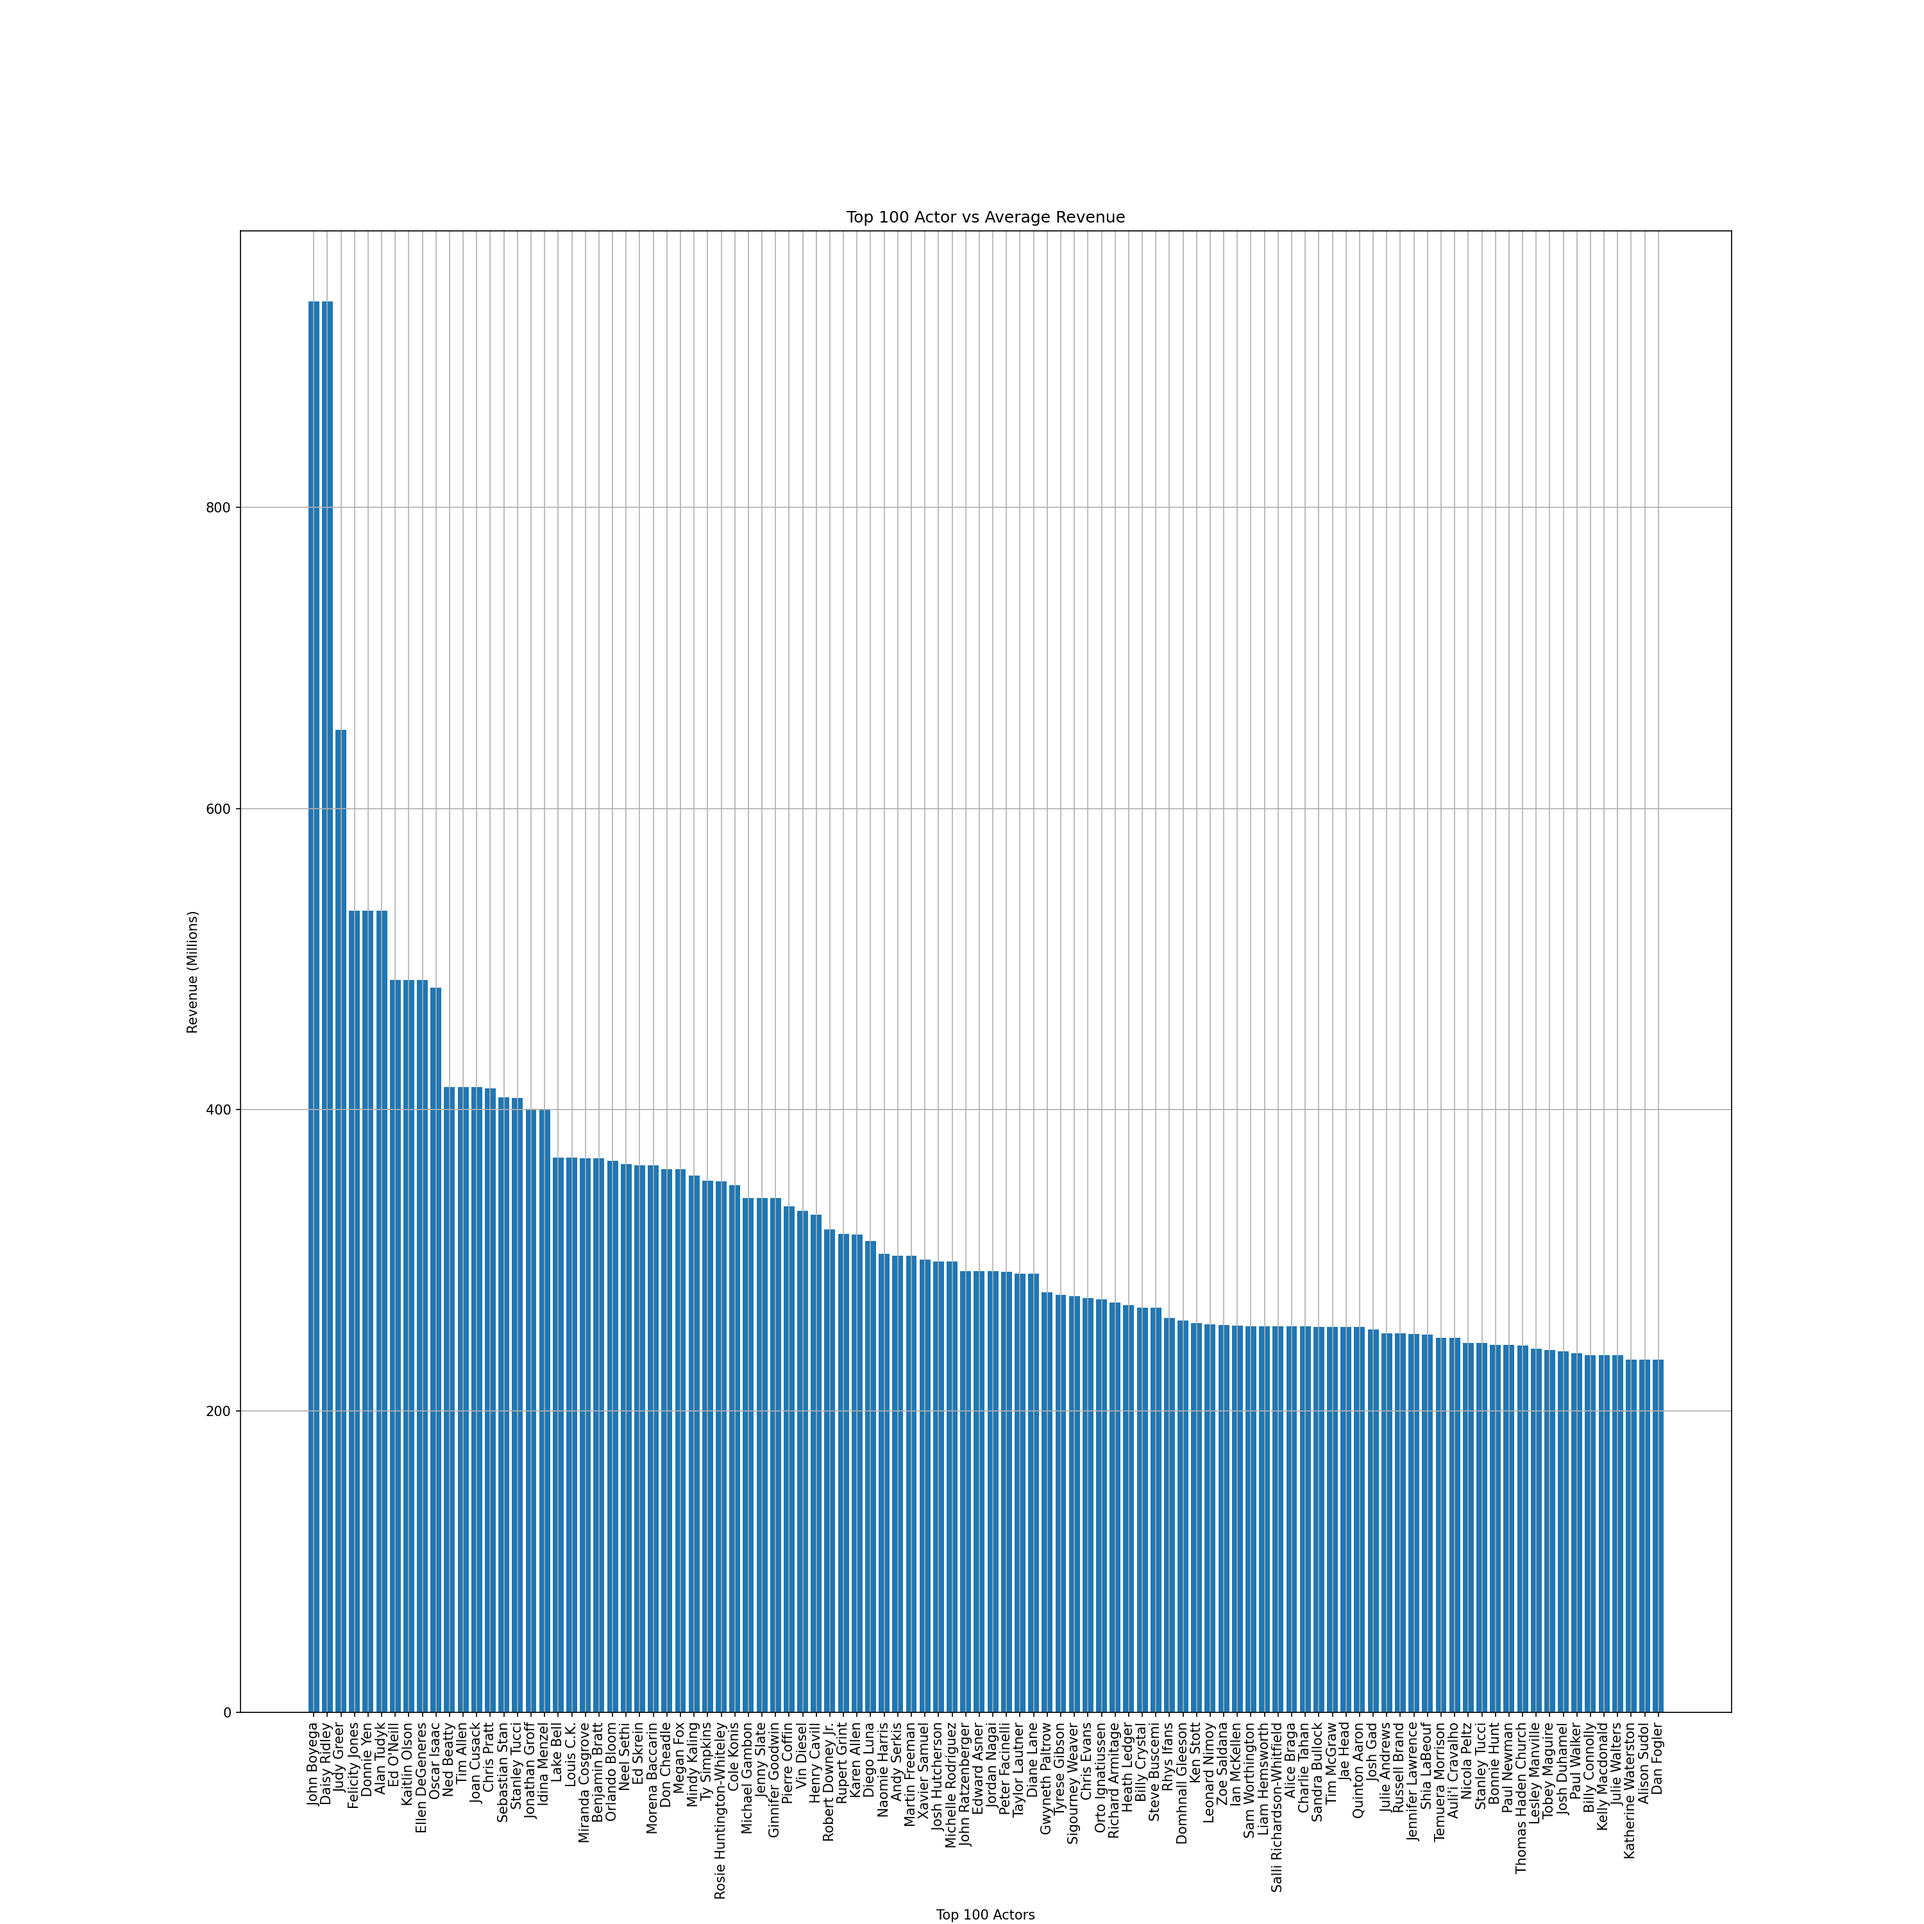
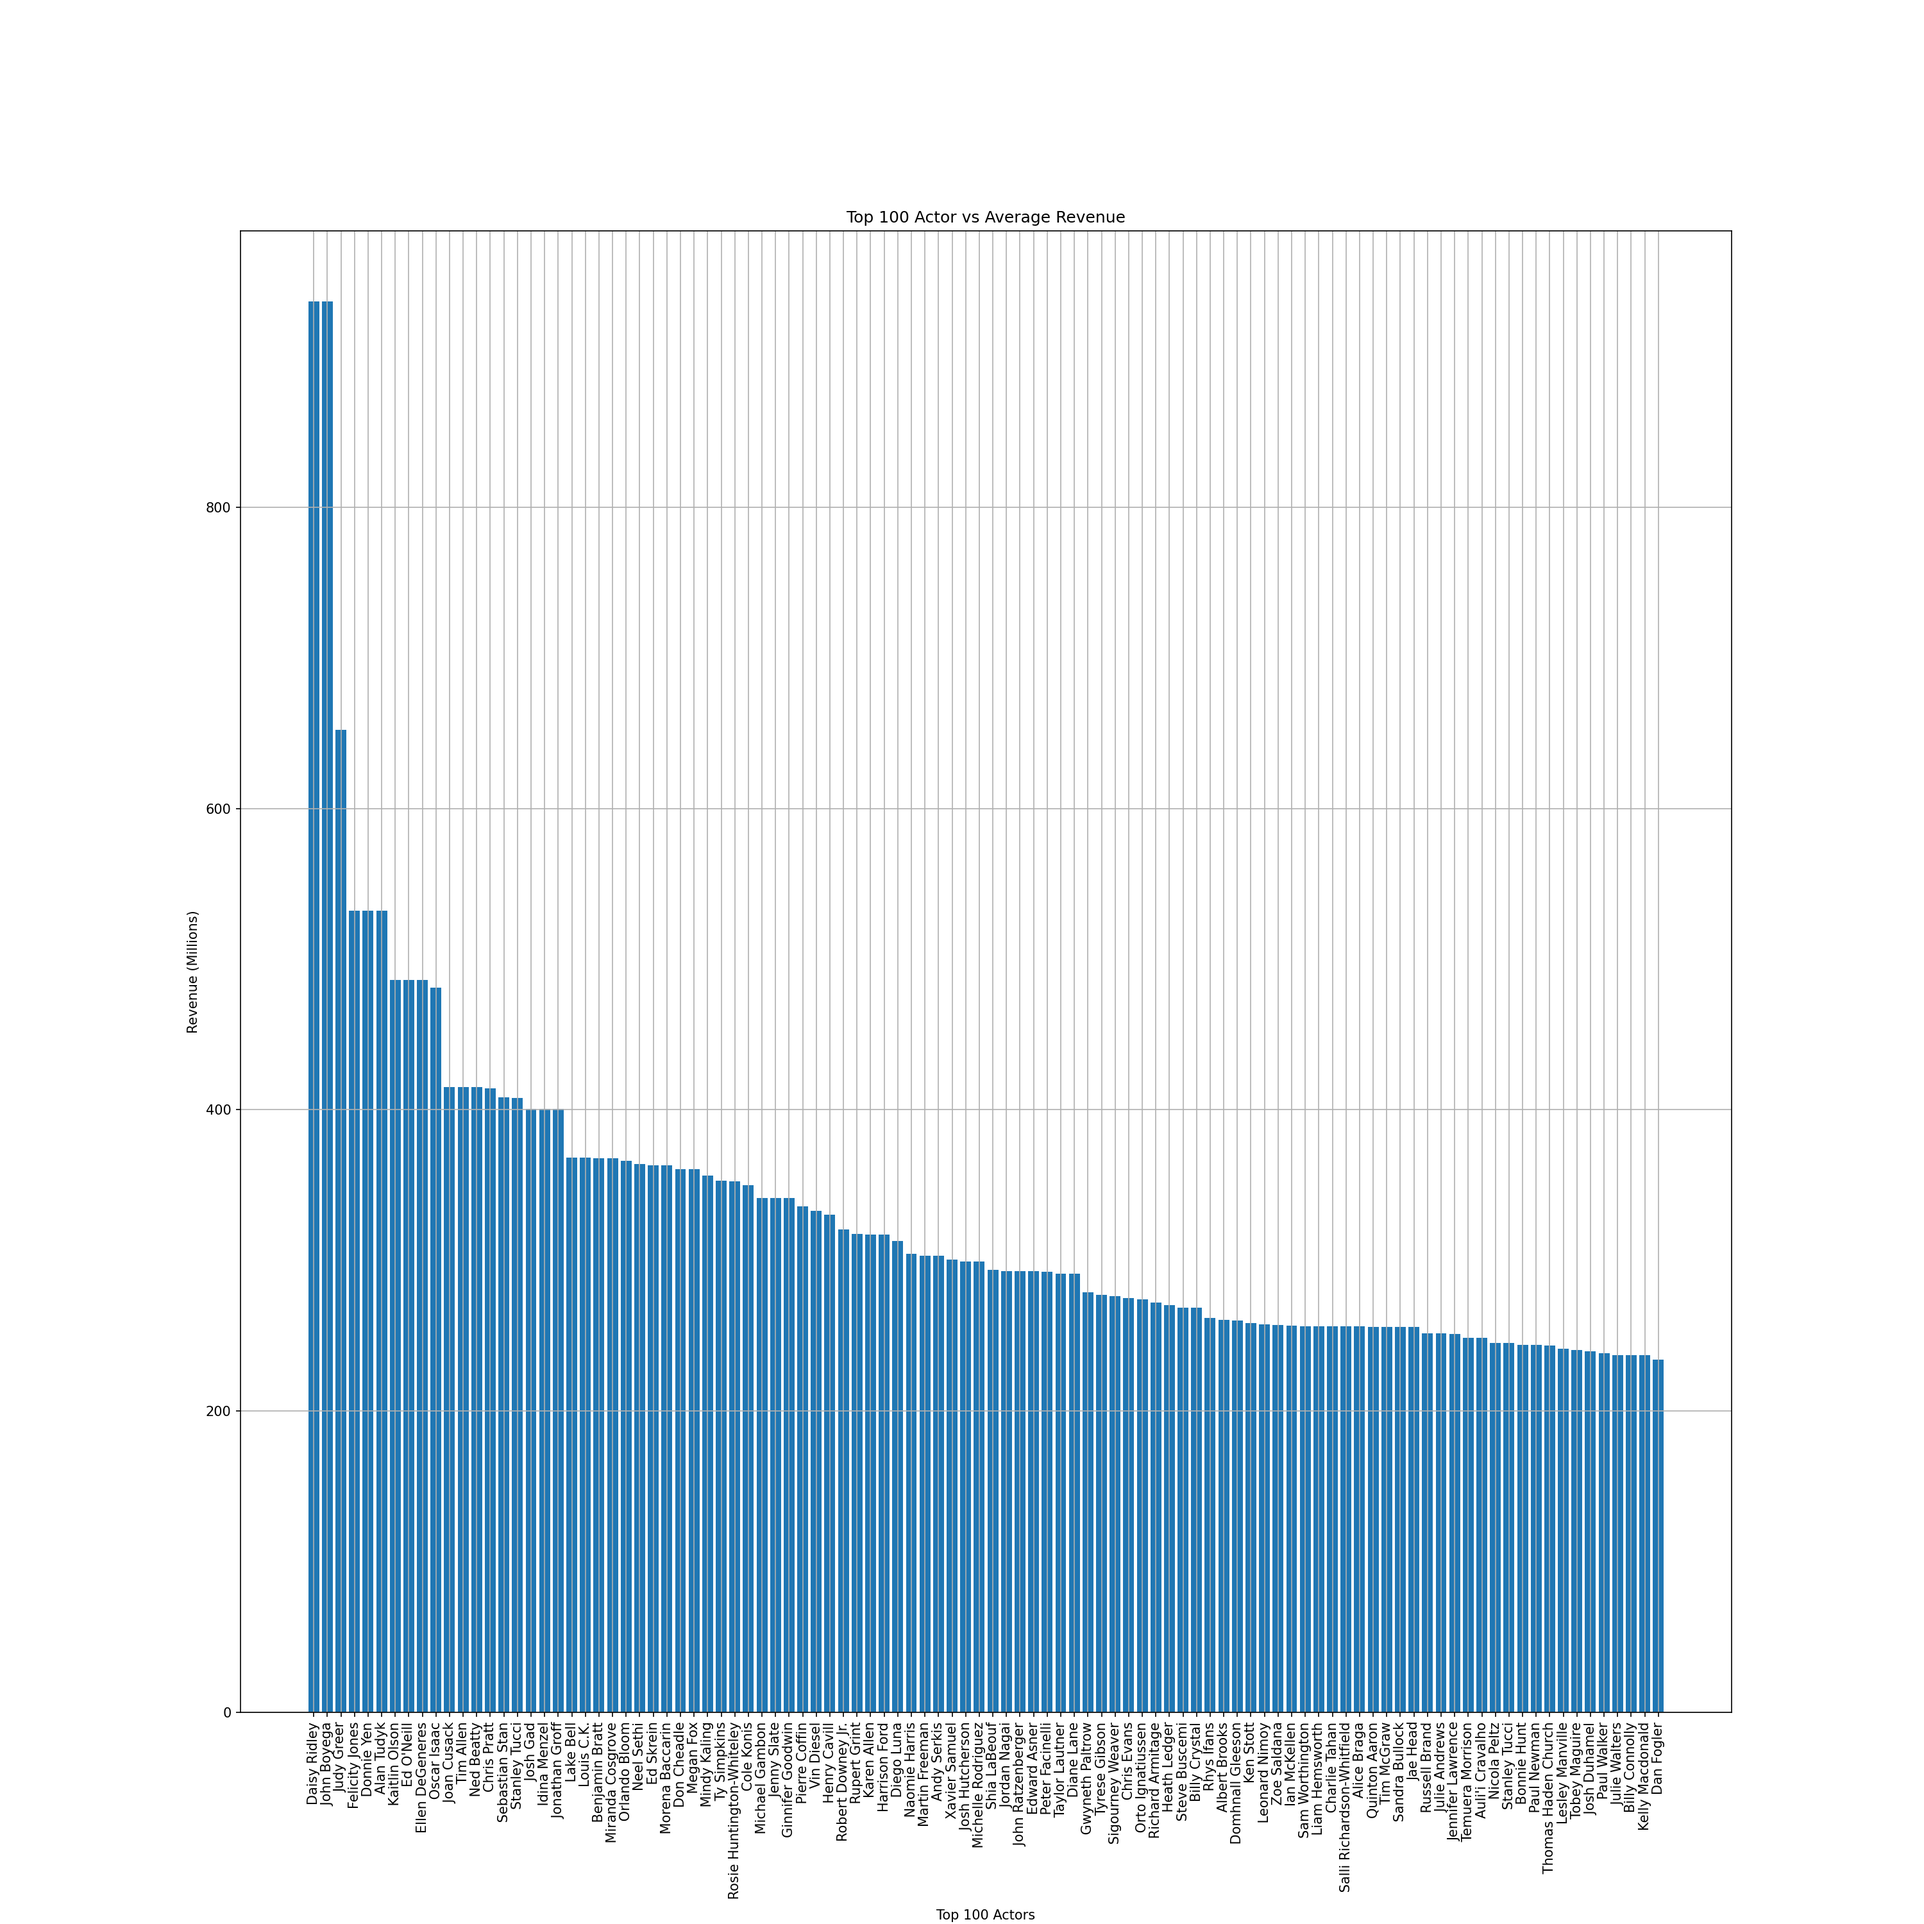
Update Images

Changed region(s): [[0.155, 0.899, 0.868, 0.992], [0.527, 0.651, 0.589, 0.682]]

diff --git a/DataAnalysis.py b/DataAnalysis.py
@@ -60,7 +60,8 @@ def sort_and_crop_dict(d: dict, n: int = None) -> dict:
 def create_average_revenue_dict(colname: str, n: int = None) -> dict:
     # Generate set of distinct genres from dataframe
     if (type(list(data[colname])[0]) == type("")):
-        all = set(sum([allcol.split(",") for allcol in list(data[colname])], []))
+        all = set(sum([allcol.split(",")
+                  for allcol in list(data[colname])], []))
     else:
         all = set([allcol for allcol in list(data[colname])])
 
@@ -69,11 +70,10 @@ def create_average_revenue_dict(colname: str, n: int = None) -> dict:
     for c in all:
         cRevenues[c] = []
 
-
     for index in data.index:
         # Getting revenue for each movie
         itemRevenue = data["Revenue (Millions)"][index]
-        if math.isnan(itemRevenue): # Skip nan values
+        if math.isnan(itemRevenue):  # Skip nan values
             continue
 
         # Find each genre for the film
@@ -102,13 +102,12 @@ def create_average_revenue_dict(colname: str, n: int = None) -> dict:
     return sort_and_crop_dict(cRevenues, n)
 
 
-
 # ! Main Code
-
 
 matplotlib.rcParams["figure.dpi"] = 150
 
 data = pd.read_csv("IMDB-Movie-Data.csv")
+data = data.dropna(0)
 # Rank, Title, Genre, Description, Director, Actors, Year, Runtime (Minutes),
 # Rating, Votes, Revenue (Millions), Metascore
 
@@ -117,15 +116,15 @@ data = pd.read_csv("IMDB-Movie-Data.csv")
 
 genreRevenues = create_average_revenue_dict("Genre")
 
-fig1, ax1 = plt.subplots(figsize=(20, 20))
+fig1, ax1 = plt.subplots(figsize=(10, 10))
 ax1.grid()
 ax1.set_title("Genre vs Average Revenue")
 ax1.set_xlabel("Genre")
 ax1.set_ylabel("Revenue (Millions)")
 ax1.bar(range(len(genreRevenues)), list(genreRevenues.values()),
         tick_label=list(genreRevenues.keys()))
-plt.savefig("Figures/Genre vs Average Revenue.png")
-
+plt.xticks(rotation=90)
+plt.savefig("Report/Figures/Genre vs Average Revenue.png")
 
 
 # ? Directors vs Average Revenue
@@ -138,10 +137,10 @@ ax1.grid()
 ax1.set_title("Top 100 Director vs Average Revenue")
 ax1.set_xlabel("Top 100 Directors")
 ax1.set_ylabel("Revenue (Millions)")
-ax1.bar(range(len(dirRevenues)), list(dirRevenues.values()), tick_label=list(dirRevenues.keys()))
+ax1.bar(range(len(dirRevenues)), list(dirRevenues.values()),
+        tick_label=list(dirRevenues.keys()))
 plt.xticks(rotation=90)
-plt.savefig("Figures/Directors vs Average Revenue.png")
-
+plt.savefig("Report/Figures/Directors vs Average Revenue.png")
 
 
 # ? Actors vs Average Revenue
@@ -157,8 +156,7 @@ ax1.set_ylabel("Revenue (Millions)")
 ax1.bar(range(len(actRevenues)), list(actRevenues.values()),
         tick_label=list(actRevenues.keys()))
 plt.xticks(rotation=90)
-plt.savefig("Figures/Actors vs Average Revenue.png")
-
+plt.savefig("Report/Figures/Actors vs Average Revenue.png")
 
 
 # ? Year vs Average Revenue
@@ -173,9 +171,9 @@ for year in yearRange:
 for index in data.index:
     # Get the revenue for the movie
     itemRevenue = data["Revenue (Millions)"][index]
-    if math.isnan(itemRevenue): # Skip nan values
+    if math.isnan(itemRevenue):  # Skip nan values
         continue
-    
+
     # Find the movies year and add its revenue
     yearRevenues[data.Year[index]].append(itemRevenue)
 
@@ -183,19 +181,19 @@ for index in data.index:
 for item in yearRevenues:
     yearRevenues[item] = sum(yearRevenues[item]) / len(yearRevenues[item])
 
-fig1, ax1 = plt.subplots(figsize=(20, 20))
+fig1, ax1 = plt.subplots(figsize=(10, 10))
 ax1.grid()
 ax1.set_title("Year vs Average Revenue")
 ax1.set_xlabel("Year")
 ax1.set_ylabel("Revenue (Millions)")
 ax1.plot(yearRange, list(yearRevenues.values()))
-plt.savefig("Figures/Year vs Average Revenue.png")
-
+plt.savefig("Report/Figures/Year vs Average Revenue.png")
 
 
 # ? Runtime vs Average Revenue
 # Get the range of runtimes in the dataframe
-runtimeRange = range(min(data["Runtime (Minutes)"]), max(data["Runtime (Minutes)"]) + 1)
+runtimeRange = range(min(data["Runtime (Minutes)"]),
+                     max(data["Runtime (Minutes)"]) + 1)
 
 # Create a dictionary with empty revenues for each year
 runtimeRevenues = {}
@@ -205,9 +203,9 @@ for runtime in runtimeRange:
 for index in data.index:
     # Get the revenue for the movie
     itemRevenue = data["Revenue (Millions)"][index]
-    if math.isnan(itemRevenue): # Skip nan values
+    if math.isnan(itemRevenue):  # Skip nan values
         continue
-    
+
     # Find the movies runtime and add its revenue
     runtimeRevenues[data["Runtime (Minutes)"][index]].append(itemRevenue)
 
@@ -218,40 +216,59 @@ for item in runtimeRevenues:
     if len(runtimeRevenues[item]) == 0:
         delList.append(item)
         continue
-    runtimeRevenues[item] = sum(runtimeRevenues[item]) / len(runtimeRevenues[item])
+    runtimeRevenues[item] = sum(
+        runtimeRevenues[item]) / len(runtimeRevenues[item])
 
 # Remove runtimes with no data
 for item in delList:
     del runtimeRevenues[item]
 
-fig1, ax1 = plt.subplots(figsize=(20, 20))
+fig1, ax1 = plt.subplots(figsize=(10, 10))
 ax1.grid()
 ax1.set_title("Runtime vs Average Revenue")
 ax1.set_xlabel("Runtime (Minutes)")
 ax1.set_ylabel("Revenue (Millions)")
-ax1.scatter(data["Runtime (Minutes)"], data["Revenue (Millions)"])
-plt.savefig("Figures/Runtime vs Average Revenue.png")
-
+ax1.scatter(data["Runtime (Minutes)"], data["Revenue (Millions)"], s=5)
+plt.savefig("Report/Figures/Runtime vs Average Revenue.png")
 
 
 # ? Rating vs Average Revenue
 
 rateRevenues = create_average_revenue_dict("Rating")
 
-fig1, ax1 = plt.subplots(figsize=(20, 20))
+fig1, ax1 = plt.subplots(figsize=(10, 10))
 ax1.grid()
 ax1.set_title("Ratings vs Average Revenue")
 ax1.set_xlabel("Movie Rating")
 ax1.set_ylabel("Average Revenue (Millions)")
-ax1.scatter(list(rateRevenues.keys()), list(rateRevenues.values()))
+ax1.scatter(list(rateRevenues.keys()), list(rateRevenues.values()), s=5)
 
-plt.savefig("Figures/Rating vs Average Revenue.png")
+plt.savefig("Report/Figures/Rating vs Average Revenue.png")
 
-fig1, ax1 = plt.subplots(figsize=(20, 20))
+fig1, ax1 = plt.subplots(figsize=(10, 10))
 ax1.grid()
 ax1.set_title("Ratings vs Revenue")
 ax1.set_xlabel("Movie Rating")
 ax1.set_ylabel("Revenue (Millions)")
-ax1.scatter(data["Rating"], data["Revenue (Millions)"])
+ax1.scatter(data["Rating"], data["Revenue (Millions)"], s=5)
 
-plt.savefig("Figures/Rating vs Revenue.png")
+plt.savefig("Report/Figures/Rating vs Revenue.png")
+
+# ? Meta Score vs Rating
+
+fig1, ax1 = plt.subplots(figsize=(10, 10))
+ax1.grid()
+ax1.set_title("Meta Score vs Rating")
+ax1.set_ylabel("Meta Score")
+ax1.set_xlabel("Rating")
+ax1.scatter(data["Rating"], data["Metascore"], s=5)
+
+x = data["Rating"]
+y = data["Metascore"]
+a, b = np.polyfit(x, y, 1)
+r_2 = np.corrcoef(x, y)
+print(r_2[0][1])
+ax1.plot(x, a * x + b, label=("$R^2=$%.2f: y = %.2f*x + %.2f" %
+         (r_2[0][1], a, b)))
+ax1.legend()
+plt.savefig("Report/Figures/Meta Score vs Rating.png")
